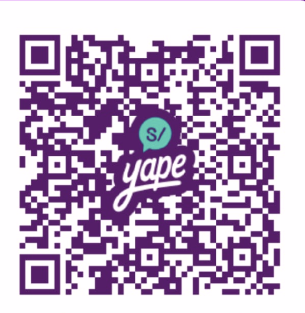
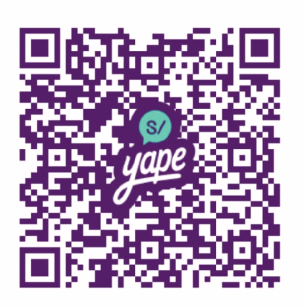
style: Aumentar margen lateral a la invitacion y actualizar imagen recortada de QR Roosvelt

diff --git a/css/style.css b/css/style.css
@@ -691,7 +691,7 @@ body {
   position: relative;
   width: 100%;
   min-height: 100vh;
-  padding: 24px 20px 80px;
+  padding: 28px 36px 80px;
   display: flex;
   flex-direction: column;
   align-items: center;
@@ -795,23 +795,7 @@ body {
   filter: drop-shadow(0 6px 14px rgba(0, 0, 0, 0.6));
 }
 
-/* Divisores de ramas doradas con corazón entre secciones */
-.gold-branch-divider {
-  display: flex;
-  align-items: center;
-  justify-content: center;
-  margin: 20px auto;
-  width: 100%;
-  max-width: 220px;
-}
 
-.gold-divider-img {
-  width: 100%;
-  max-width: 200px;
-  height: auto;
-  display: block;
-  filter: drop-shadow(0 2px 8px rgba(212, 175, 55, 0.5));
-}
 
 /* Marco dorado fino exterior de la invitación */
 .invitation-border-frame {
@@ -2637,6 +2621,10 @@ body {
    RESPONSIVIDAD Y AJUSTES MÓVILES (PERFECCIÓN EN CELULARES)
    =================================================== */
 @media (max-width: 440px) {
+  #invitation-content {
+    padding: 20px 24px 70px !important;
+  }
+
   .calendar-section,
   .countdown-section,
   .event-card,
@@ -2644,7 +2632,7 @@ body {
   .dress-code-card,
   .rsvp-elegant-card,
   .gift-elegant-card {
-    width: calc(100% - 24px) !important;
+    width: calc(100% - 20px) !important;
     max-width: 100% !important;
     padding: 26px 16px 20px !important;
     border-radius: 24px !important;

diff --git a/index.html b/index.html
@@ -634,7 +634,7 @@
       <div class="yape-tab-content" id="yape-tab-roosvelt">
         <!-- Cuadro Blanco del QR -->
         <div class="yape-qr-card">
-          <img src="assets/images/qr_roosvelt.png?v=2" alt="Código QR Yape Roosvelt Mamani Corrales" class="yape-qr-img">
+          <img src="assets/images/qr_roosvelt.png?v=3" alt="Código QR Yape Roosvelt Mamani Corrales" class="yape-qr-img">
         </div>
 
         <!-- Tarjeta de Datos -->
